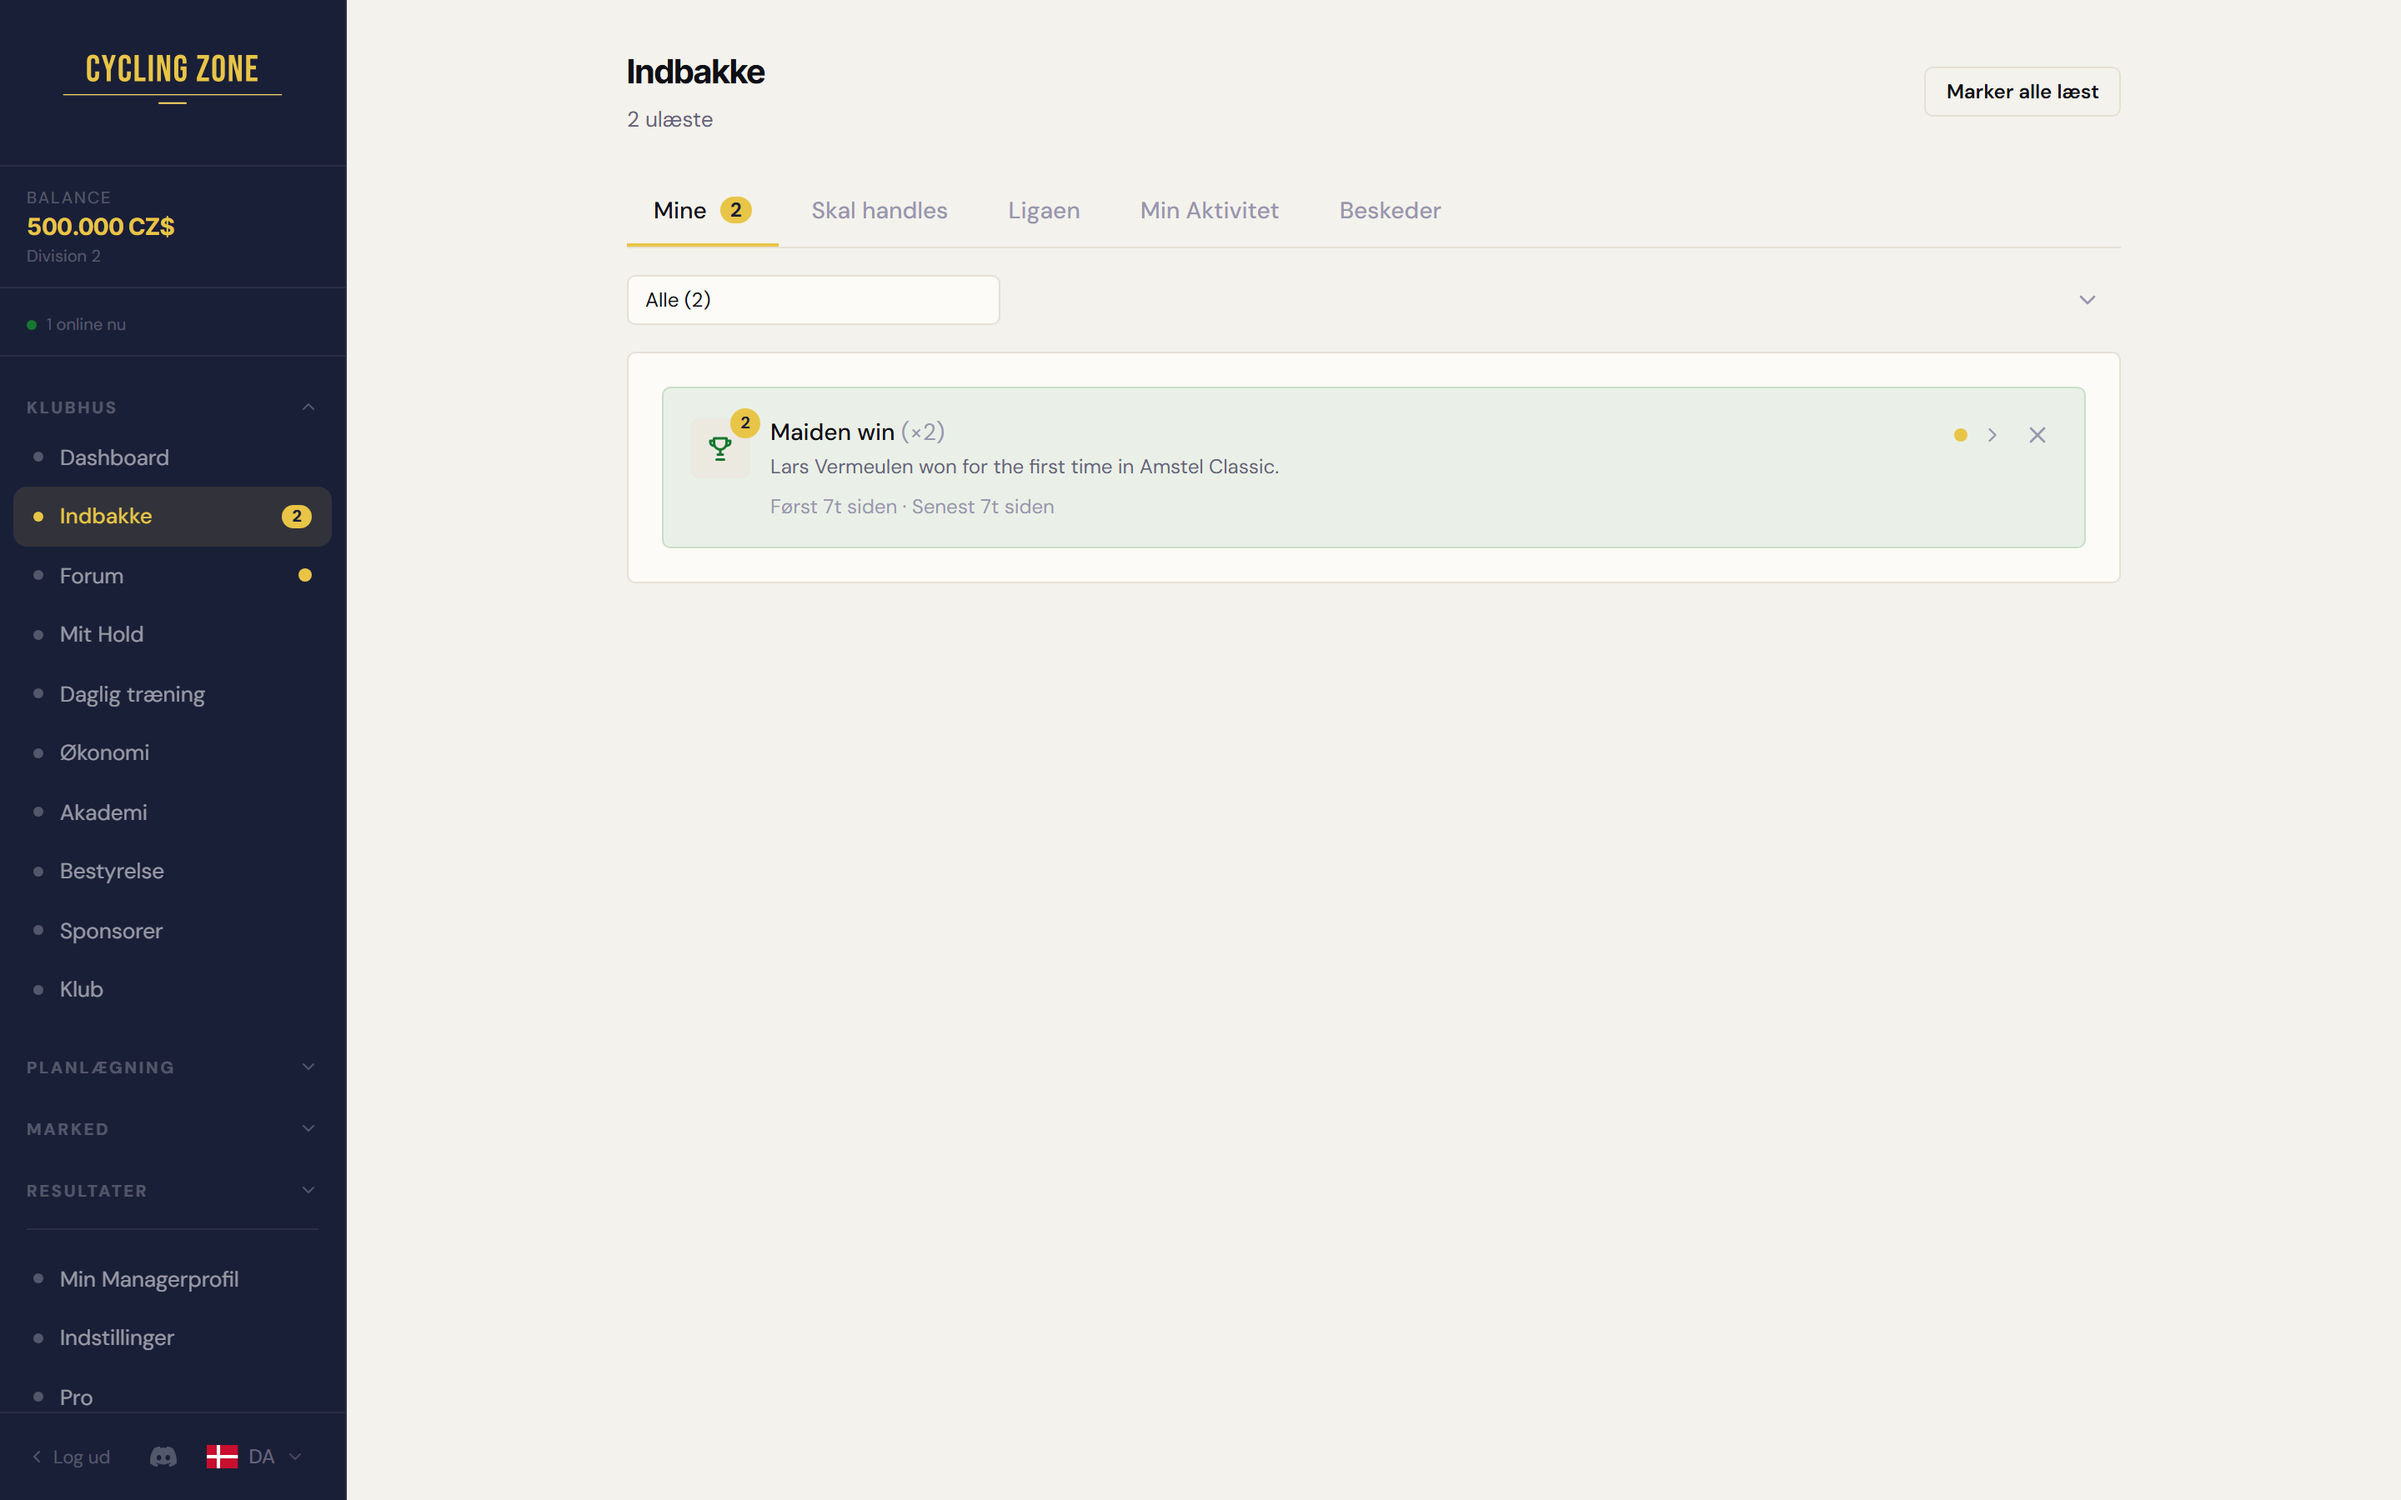
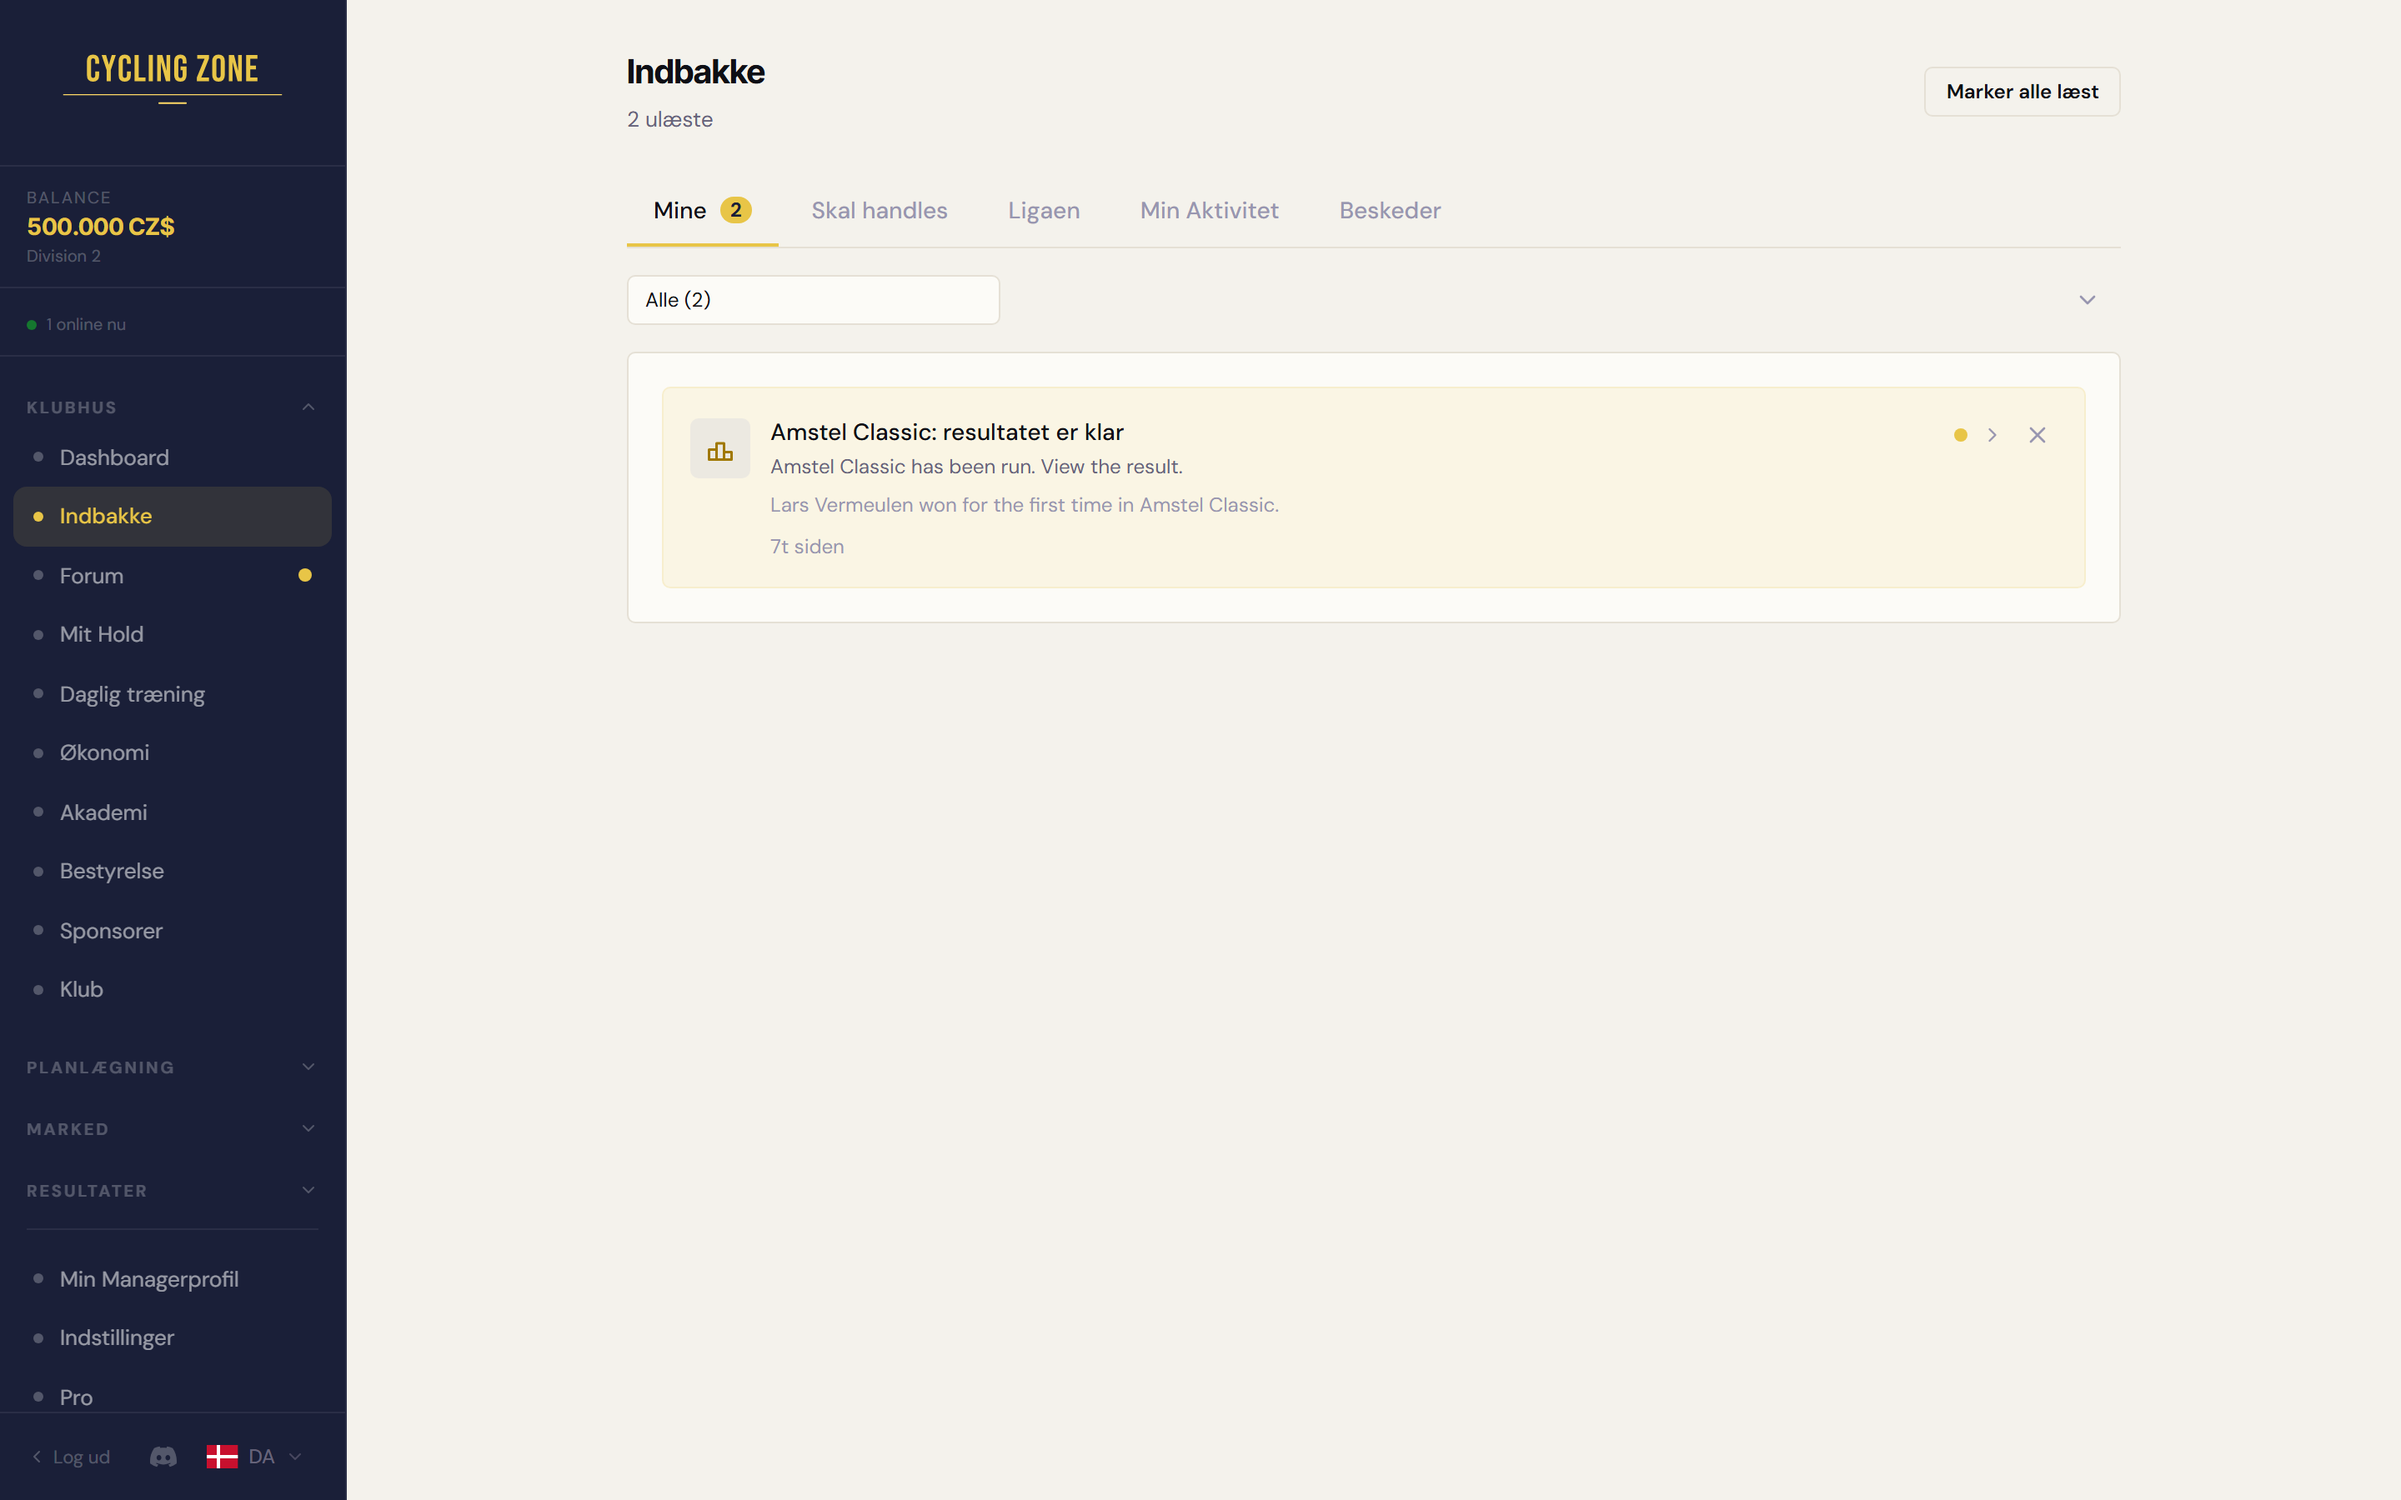
chore(5384): nyt bevisbillede af den samlede loebs-linje + shots-script (Refs #5384)
Foer-billedet blev taget i haanden; nu ligger opskriften i repoet:
frontend/tests/e2e/5384-notifications.shots.mjs mocker notifications-tabellen
med praecis samme data som foer-billedet (Amstel Classic, Lars Vermeulen,
dansk UI, 1440 px @2x, lyst tema) og fotograferer baade den samlede linje og
den udfoldede visning. Samme moenster som 3439-badge-loft.shots.mjs: ad hoc
capture, ikke en del af CI (testMatch fanger kun *.spec.js).

Titel og besked i mocken er raa tekst uden titleCode/messageCode - praecis som
i foer-billedet - saa de to skud kan laegges side om side uden at teksten
skifter sprog undervejs. metadata baerer til gengaeld messageParams.race,
netop det strukturerede felt den nye titel bygger paa.

pr-screens/5384-indbakke-foer-efter.html + .png saetter "I dag" og "Efter" op
ved siden af hinanden, beskaaret til indbakke-kortet, med nummererede pins og
en kort legende paa dansk.

Refs #5384

Changed region(s): [[0.2812, 0.28, 0.5312, 0.3733]]

diff --git a/pr-screens/5384-indbakke-foer-efter.html b/pr-screens/5384-indbakke-foer-efter.html
@@ -1,0 +1,114 @@
+<!doctype html>
+<!--
+  #5384 · foer/efter af den samlede loebs-linje i indbakken.
+
+  De to skud kommer fra frontend/tests/e2e/5384-notifications.shots.mjs
+  ("efter") og fra samme opstilling koert paa koden foer PR #5400 ("i dag").
+  Denne side er ren geometri oven paa dem: et udsnit + nummererede pins.
+
+  PNG'en ved siden af er taget med Playwright:
+    viewport 1200 px bredt, deviceScaleFactor 2, fullPage.
+-->
+<html lang="da">
+<head>
+<meta charset="utf-8">
+<title>Indbakken: én linje pr. løb (#5384)</title>
+<style>
+  :root {
+    --bg: #f2f0e9;
+    --card: #ffffff;
+    --ink: #1b1d26;
+    --ink-2: #4e5261;
+    --ink-3: #8a8e9c;
+    --line: #d9d6cd;
+    --pin: #b8901c;
+    --pin-ink: #ffffff;
+    --pin-line: rgba(184, 144, 28, 0.55);
+  }
+  * { box-sizing: border-box; }
+  body {
+    margin: 0;
+    background: var(--bg);
+    color: var(--ink);
+    font-family: "Segoe UI", system-ui, -apple-system, Arial, sans-serif;
+    -webkit-font-smoothing: antialiased;
+  }
+  .page { width: 1200px; padding: 28px 28px 30px; }
+  h1 { font-size: 21px; line-height: 1.25; margin: 0 0 4px; font-weight: 700; letter-spacing: -0.01em; }
+  .sub { font-size: 13px; color: var(--ink-2); margin: 0 0 20px; }
+  .cols { display: grid; grid-template-columns: 560px 560px; gap: 24px; align-items: start; }
+  .col { background: var(--card); border: 1px solid var(--line); border-radius: 5px; padding: 14px; }
+  .label {
+    font-size: 11px; letter-spacing: 0.10em; text-transform: uppercase;
+    color: var(--ink-3); margin: 0 0 10px; font-weight: 700;
+  }
+  /* Udsnit af de fulde 2880x1800-skud (1440 px @2x): x=745, y=445, bredde=1807,
+     vist i 532 px -> faktor 0,294411. Hoejden foelger Section-kassen i hvert
+     skud, saa intet klippes i hverken hoejre eller nederste kant. */
+  .shot { position: relative; width: 532px; overflow: hidden;
+          border: 1px solid var(--line); border-radius: 5px; background: var(--bg); }
+  .shot img { position: absolute; width: 847.9px; max-width: none; left: -219.4px; top: -131.0px; }
+  .shot.foer { height: 141px; }
+  .shot.efter { height: 92px; }
+  .pin {
+    position: absolute; width: 13px; height: 13px; border-radius: 50%;
+    background: var(--pin); color: var(--pin-ink);
+    font-size: 9px; font-weight: 700; line-height: 13px; text-align: center;
+  }
+  .lead { position: absolute; height: 1px; background: var(--pin-line); }
+  .bracket { position: absolute; width: 1px; background: var(--pin-line); }
+  ol.legend { margin: 12px 0 0; padding: 0; list-style: none; }
+  ol.legend li {
+    display: grid; grid-template-columns: 13px 1fr; gap: 8px;
+    font-size: 12.5px; line-height: 1.45; color: var(--ink-2); margin-bottom: 6px;
+  }
+  ol.legend li:last-child { margin-bottom: 0; }
+  ol.legend .n {
+    width: 13px; height: 13px; border-radius: 50%; background: var(--pin);
+    color: var(--pin-ink); font-size: 9px; font-weight: 700; line-height: 13px;
+    text-align: center; margin-top: 3px;
+  }
+  .foot { font-size: 11.5px; color: var(--ink-3); margin: 16px 0 0; }
+</style>
+</head>
+<body>
+<div class="page">
+  <h1>Indbakken: ét afviklet løb giver én linje</h1>
+  <p class="sub">Amstel Classic, hvor Lars Vermeulen vandt sit første løb. Dansk sprog, 1440 px, lyst tema.</p>
+
+  <div class="cols">
+    <div class="col">
+      <p class="label">I dag</p>
+      <div class="shot foer">
+        <img src="5384-notifications-before-1440.png" alt="Indbakken i dag: to beskeder om samme løb">
+        <div class="bracket" style="left: 281px; top: 35px; height: 62px;"></div>
+        <div class="pin" style="left: 275px; top: 59px;">1</div>
+      </div>
+      <ol class="legend">
+        <li><span class="n">1</span><span>Ét løb giver to beskeder: resultatet og rytterens første sejr.</span></li>
+      </ol>
+    </div>
+
+    <div class="col">
+      <p class="label">Efter</p>
+      <div class="shot efter">
+        <img src="5384-notifications-after-1440.png" alt="Indbakken efter: én linje med løbet som overskrift">
+        <div class="lead" style="left: 185px; top: 21px; width: 90px;"></div>
+        <div class="pin" style="left: 275px; top: 15px;">1</div>
+        <div class="lead" style="left: 239px; top: 47px; width: 36px;"></div>
+        <div class="pin" style="left: 275px; top: 41px;">2</div>
+        <div class="lead" style="left: 87px; top: 62px; width: 188px;"></div>
+        <div class="pin" style="left: 275px; top: 55px;">3</div>
+      </div>
+      <ol class="legend">
+        <li><span class="n">1</span><span>Én linje pr. løb. Løbet er overskriften.</span></li>
+        <li><span class="n">2</span><span>Rytterens første sejr står lige under, uden at man skal folde noget ud.</span></li>
+        <li><span class="n">3</span><span>Én tid i stedet for to.</span></li>
+      </ol>
+    </div>
+  </div>
+
+  <p class="foot">Teksterne i kortene er dem backenden sender i dag. Billedet er skåret til selve indbakke-kortet.</p>
+</div>
+</body>
+</html>
